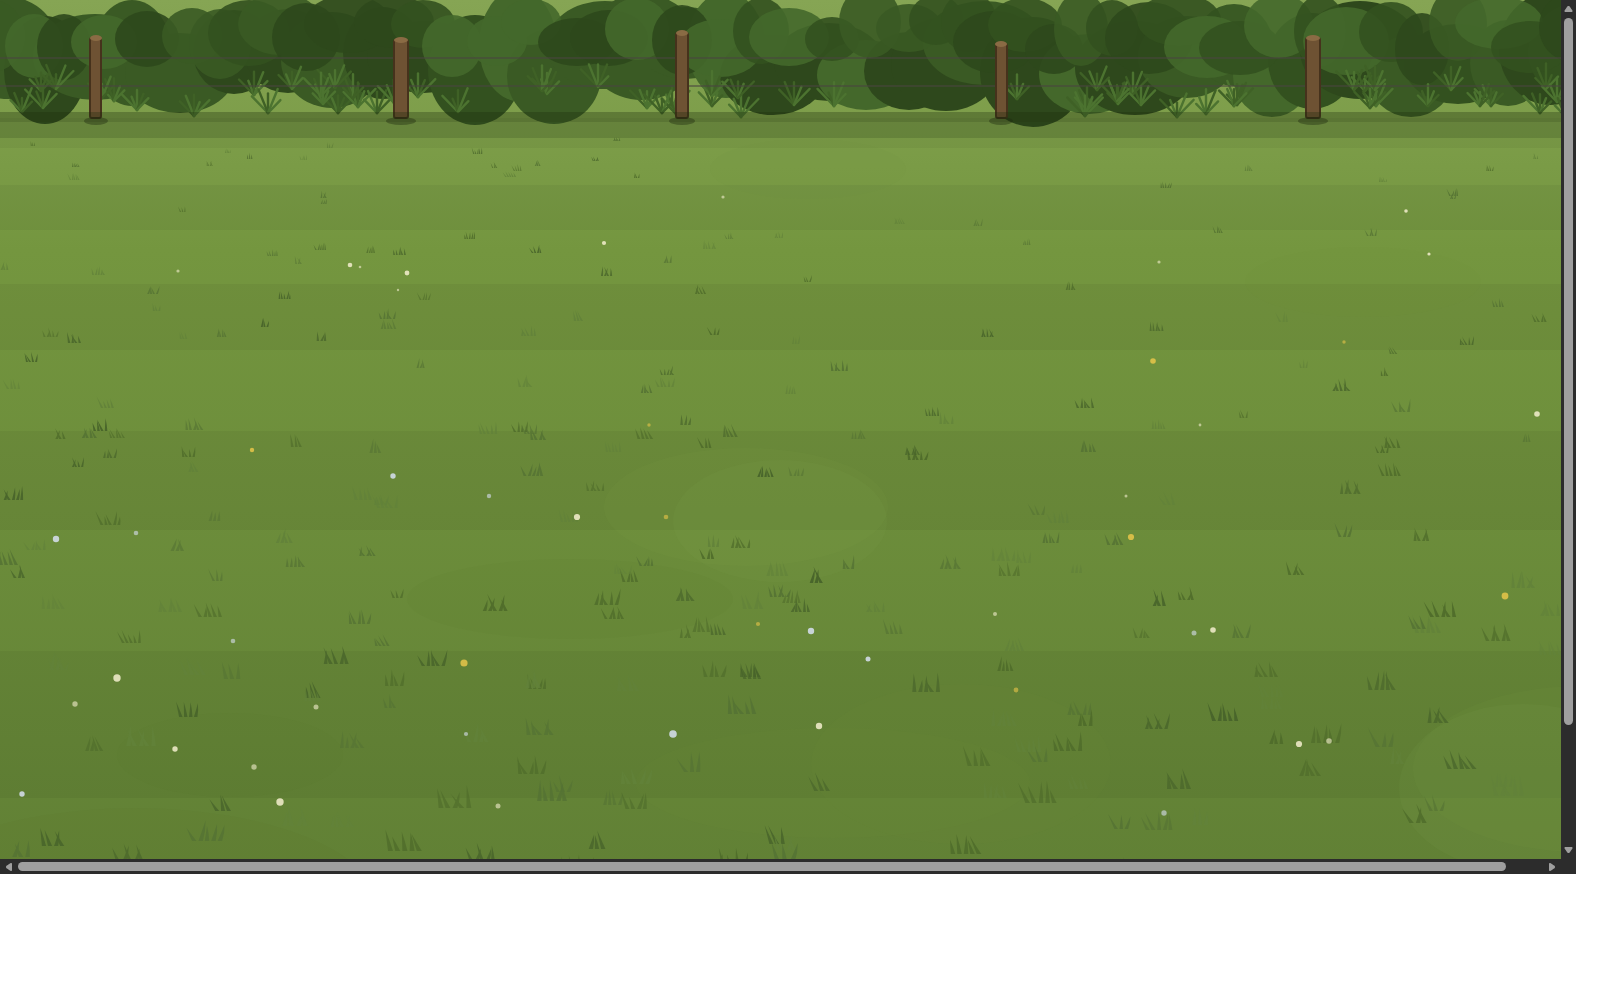
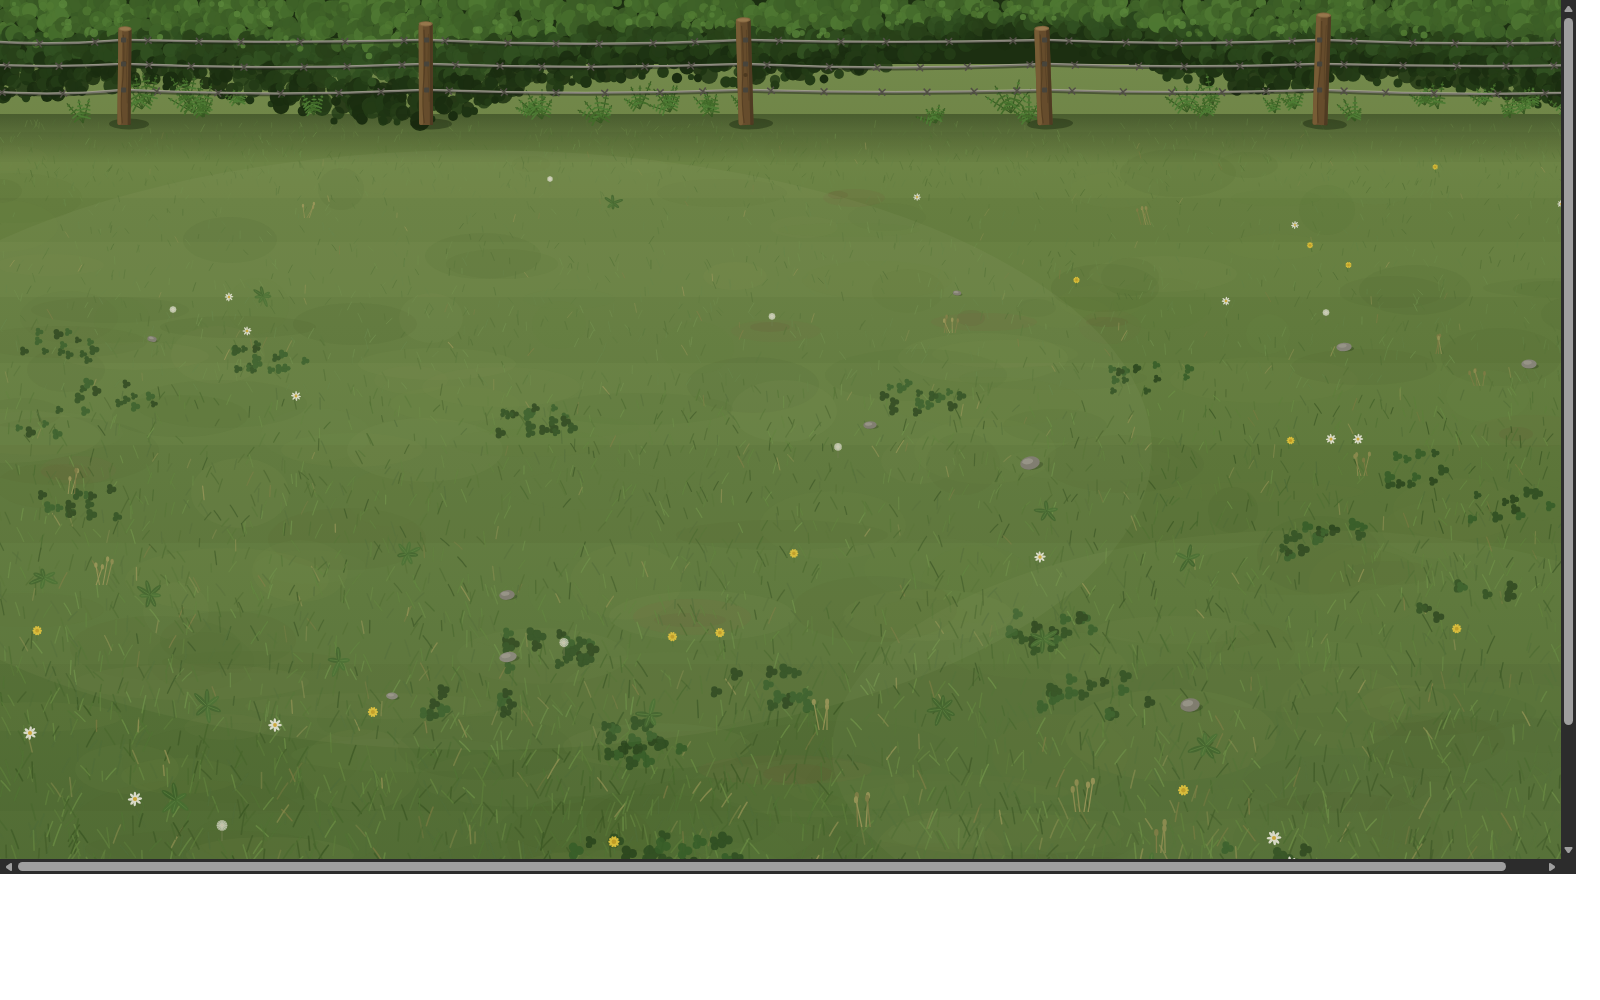
Hobekuntza estetikoak 3

diff --git a/gen-bg.js b/gen-bg.js
@@ -1,96 +1,275 @@
-// Genera un fondo de campo procedural coherente con la vista frontal de las colmenas:
-// suelo de hierba con perspectiva (franjas que crecen hacia abajo, matas más grandes cerca),
-// seto frontal y postes de valla arriba. Salida: bg.svg (se rasteriza con Edge headless).
+// Fondo de campo procedural v2 — más realista:
+// hierba con textura densa (miles de briznas), varias especies de plantas,
+// seto de follaje menudo y alambrado de espino bien visible.
+// Salida: bg.svg (rasterizar con Edge headless a 1600x1000).
 'use strict';
 const fs = require('fs');
 
 const W = 1600, H = 1000;
+const GROUND = 118; // línea donde el seto toca el suelo
 const rnd = (a, b) => a + Math.random() * (b - a);
 const pick = arr => arr[Math.floor(Math.random() * arr.length)];
+const out = [];
+const add = s => out.push(s);
 
-let s = `<svg xmlns="http://www.w3.org/2000/svg" width="${W}" height="${H}" viewBox="0 0 ${W} ${H}">`;
+add(`<svg xmlns="http://www.w3.org/2000/svg" width="${W}" height="${H}" viewBox="0 0 ${W} ${H}">`);
 
-// ── Suelo base: más claro al fondo (lejos), más saturado cerca ──
-s += `<defs><linearGradient id="g" x1="0" y1="0" x2="0" y2="1">
-<stop offset="0" stop-color="#86a554"/><stop offset="0.25" stop-color="#74963f"/>
-<stop offset="1" stop-color="#5d7c33"/></linearGradient></defs>`;
-s += `<rect width="${W}" height="${H}" fill="url(#g)"/>`;
+// ── Base: gradiente apagado, menos saturado que v1 ──
+add(`<defs>
+<linearGradient id="g" x1="0" y1="0" x2="0" y2="1">
+<stop offset="0" stop-color="#7e9352"/><stop offset="0.2" stop-color="#6f8746"/>
+<stop offset="0.6" stop-color="#5f7a3c"/><stop offset="1" stop-color="#516b34"/>
+</linearGradient>
+<linearGradient id="hs" x1="0" y1="0" x2="0" y2="1">
+<stop offset="0" stop-color="#16230c" stop-opacity=".42"/><stop offset="1" stop-color="#16230c" stop-opacity="0"/>
+</linearGradient>
+</defs>`);
+add(`<rect width="${W}" height="${H}" fill="url(#g)"/>`);
 
-// ── Franjas de siega con perspectiva: estrechas lejos, anchas cerca ──
-let y = 118, bh = 30, i = 0;
-while (y < H + 200) {
-  if (i % 2 === 0) s += `<rect x="0" y="${y.toFixed(0)}" width="${W}" height="${bh.toFixed(0)}" fill="#000" opacity="0.045"/>`;
-  y += bh; bh *= 1.22; i++;
+// ── Franjas de siega (perspectiva) muy sutiles ──
+let fy = GROUND + 14, fh = 30, fi = 0;
+while (fy < H + 220) {
+  if (fi % 2 === 0) add(`<rect x="0" y="${fy | 0}" width="${W}" height="${fh | 0}" fill="#26330f" opacity="0.05"/>`);
+  fy += fh; fh *= 1.22; fi++;
 }
 
-// ── Manchas orgánicas grandes muy sutiles ──
-for (let k = 0; k < 14; k++) {
-  const cy = rnd(160, H);
-  const sc = 0.4 + 0.8 * (cy / H);
-  s += `<ellipse cx="${rnd(0, W).toFixed(0)}" cy="${cy.toFixed(0)}" rx="${(rnd(90, 220) * sc).toFixed(0)}" ry="${(rnd(40, 90) * sc).toFixed(0)}" fill="${pick(['#4e6b2a', '#83a352', '#6d8d3d'])}" opacity="${rnd(.06, .13).toFixed(2)}"/>`;
+// ── Moteado orgánico (variación de tono) ──
+for (let k = 0; k < 220; k++) {
+  const cy = rnd(GROUND + 20, H);
+  const sc = 0.4 + 0.9 * (cy / H);
+  add(`<ellipse cx="${rnd(0, W) | 0}" cy="${cy | 0}" rx="${(rnd(30, 130) * sc) | 0}" ry="${(rnd(12, 45) * sc) | 0}" fill="${pick(['#43592a', '#7d9551', '#69833f', '#8c9c58', '#4d6630'])}" opacity="${rnd(.05, .11).toFixed(2)}"/>`);
 }
 
-// ── Matas de hierba: tamaño según cercanía (perspectiva) ──
-const greens = ['#4e6b2a', '#557334', '#46622a', '#62823a'];
-for (let k = 0; k < 320; k++) {
-  const cy = rnd(140, H - 4);
+// ── Calvas de tierra ──
+for (let k = 0; k < 9; k++) {
+  const cy = rnd(GROUND + 80, H);
+  const sc = 0.4 + 0.9 * (cy / H);
   const cx = rnd(0, W);
-  const sc = (0.35 + 1.05 * ((cy - 140) / (H - 140))) * rnd(.8, 1.2);
-  const c = pick(greens);
-  let tuft = '';
-  const blades = 3 + Math.floor(rnd(0, 3));
-  for (let b = 0; b < blades; b++) {
-    const bx = (b - blades / 2) * 5;
-    const hgt = rnd(10, 17), lean = rnd(-4, 4);
-    tuft += `<path d="M${bx} 0 Q${bx + lean} ${-hgt * .6} ${bx + lean * 1.6} ${-hgt} Q${bx + lean + 2.2} ${-hgt * .5} ${bx + 3.5} 0 Z" fill="${c}"/>`;
+  add(`<ellipse cx="${cx | 0}" cy="${cy | 0}" rx="${(rnd(40, 90) * sc) | 0}" ry="${(rnd(14, 26) * sc) | 0}" fill="#7a6a44" opacity="${rnd(.10, .18).toFixed(2)}"/>`);
+  add(`<ellipse cx="${(cx + rnd(-20, 20)) | 0}" cy="${(cy + rnd(-6, 6)) | 0}" rx="${(rnd(18, 40) * sc) | 0}" ry="${(rnd(7, 13) * sc) | 0}" fill="#6b5a38" opacity="${rnd(.12, .2).toFixed(2)}"/>`);
+}
+
+// ── Sombra del seto sobre el suelo ──
+add(`<rect x="0" y="${GROUND - 4}" width="${W}" height="46" fill="url(#hs)"/>`);
+
+// ── Briznas de hierba: textura principal (capa lejana → cercana) ──
+const farCols = ['#5d7a3c', '#688547', '#71904c', '#557236'];
+const nearCols = ['#3e5a26', '#4a692e', '#557636', '#62843d', '#6f9247', '#54703a'];
+const dryCols = ['#8d9050', '#9b9858', '#7f7f44'];
+function blade(x, y, s, c, wmin) {
+  const l = rnd(7, 15) * s;
+  const lean = rnd(-4.5, 4.5) * s;
+  return `<path d="M${x.toFixed(1)} ${y.toFixed(1)} q${lean.toFixed(1)} ${(-l * .6).toFixed(1)} ${(lean * 1.9).toFixed(1)} ${(-l).toFixed(1)}" stroke="${c}" stroke-width="${(wmin + s * .75).toFixed(2)}" fill="none" stroke-linecap="round"/>`;
+}
+for (let k = 0; k < 6800; k++) {
+  const t = Math.pow(Math.random(), 0.8);
+  const y = GROUND + 16 + (H - GROUND - 12) * t;
+  const s = 0.4 + 1.25 * t;
+  const c = Math.random() < .06 ? pick(dryCols) : (t < .3 ? pick(farCols) : pick(nearCols));
+  add(`<g opacity="${rnd(.4, .85).toFixed(2)}">${blade(rnd(0, W), y, s, c, .5)}</g>`);
+}
+// franja junto al seto: hierba fina extra para que no quede desnuda
+for (let k = 0; k < 900; k++) {
+  const y = rnd(GROUND + 6, GROUND + 70);
+  add(`<g opacity="${rnd(.35, .7).toFixed(2)}">${blade(rnd(0, W), y, rnd(.35, .55), pick(farCols), .4)}</g>`);
+}
+
+// ── Trébol: parches de hojas trifolio ──
+for (let p = 0; p < 22; p++) {
+  const cx = rnd(20, W - 20), cy = rnd(GROUND + 60, H - 10);
+  const sc = 0.5 + 1.0 * (cy / H);
+  let g = '';
+  const n = 8 + (rnd(0, 14) | 0);
+  for (let i = 0; i < n; i++) {
+    const lx = rnd(-46, 46) * sc, ly = rnd(-17, 17) * sc, r = rnd(2.2, 3.4) * sc;
+    const c = pick(['#2f4f22', '#38602a', '#2a451d']);
+    g += `<g transform="translate(${lx.toFixed(0)} ${ly.toFixed(0)})">`;
+    for (let a = 0; a < 3; a++) {
+      const rad = (a * 120 + rnd(-12, 12)) * Math.PI / 180;
+      g += `<circle cx="${(Math.cos(rad) * r * .95).toFixed(1)}" cy="${(Math.sin(rad) * r * .95).toFixed(1)}" r="${r.toFixed(1)}" fill="${c}"/>`;
+    }
+    g += '</g>';
   }
-  s += `<g transform="translate(${cx.toFixed(0)} ${cy.toFixed(0)}) scale(${sc.toFixed(2)})" opacity="${rnd(.55, .9).toFixed(2)}">${tuft}</g>`;
+  add(`<g transform="translate(${cx | 0} ${cy | 0})" opacity=".85">${g}</g>`);
 }
 
-// ── Florecillas dispersas ──
-for (let k = 0; k < 26; k++) {
-  const cy = rnd(200, H);
-  const sc = 0.5 + 0.8 * (cy / H);
-  const col = pick(['#f4eecf', '#f4eecf', '#e8c54a', '#d8e0f2']);
-  s += `<circle cx="${rnd(0, W).toFixed(0)}" cy="${cy.toFixed(0)}" r="${(rnd(2.2, 3.6) * sc).toFixed(1)}" fill="${col}" opacity=".85"/>`;
-  s += `<circle cx="${(rnd(0, W)).toFixed(0)}" cy="${(cy + rnd(-30, 30)).toFixed(0)}" r="${(rnd(1.6, 2.6) * sc).toFixed(1)}" fill="${col}" opacity=".6"/>`;
+// ── Llantén: rosetas de hojas alargadas ──
+for (let p = 0; p < 16; p++) {
+  const cx = rnd(20, W - 20), cy = rnd(GROUND + 70, H - 8);
+  const sc = 0.5 + 1.0 * (cy / H);
+  let g = '';
+  const leaves = 5 + (rnd(0, 3) | 0);
+  for (let i = 0; i < leaves; i++) {
+    const ang = (i / leaves) * 360 + rnd(-15, 15);
+    const len = rnd(9, 15) * sc;
+    g += `<g transform="rotate(${ang.toFixed(0)})"><ellipse cx="0" cy="${(-len / 2).toFixed(1)}" rx="${(2.1 * sc).toFixed(1)}" ry="${(len / 2).toFixed(1)}" fill="${pick(['#41652c', '#4b7233'])}"/><line x1="0" y1="-1" x2="0" y2="${(-len + 2).toFixed(1)}" stroke="#5d8540" stroke-width="${(.6 * sc).toFixed(2)}"/></g>`;
+  }
+  add(`<g transform="translate(${cx | 0} ${cy | 0})" opacity=".9">${g}</g>`);
 }
 
-// ── Seto al fondo (vista frontal, como las colmenas) ──
-const hedge = ['#2e481c', '#3a5a24', '#44682b', '#33511f'];
-for (let x = -40; x < W + 40; x += rnd(34, 56)) {
-  const ry = rnd(34, 58), cy = rnd(42, 78);
-  s += `<ellipse cx="${x.toFixed(0)}" cy="${cy.toFixed(0)}" rx="${rnd(38, 62).toFixed(0)}" ry="${ry.toFixed(0)}" fill="${pick(hedge)}"/>`;
+// ── Dientes de león: flores amarillas y vilanos ──
+for (let p = 0; p < 16; p++) {
+  const cx = rnd(15, W - 15), cy = rnd(GROUND + 50, H - 10);
+  const sc = 0.5 + 1.0 * (cy / H);
+  const r = 3.4 * sc;
+  let g = `<line x1="0" y1="0" x2="${rnd(-2, 2).toFixed(1)}" y2="${(-9 * sc).toFixed(1)}" stroke="#557637" stroke-width="${(1 * sc).toFixed(2)}"/>`;
+  g += `<g transform="translate(${rnd(-2, 2).toFixed(1)} ${(-9 * sc).toFixed(1)})">`;
+  for (let i = 0; i < 10; i++) {
+    const rad = i / 10 * Math.PI * 2;
+    g += `<ellipse cx="${(Math.cos(rad) * r * .7).toFixed(1)}" cy="${(Math.sin(rad) * r * .7).toFixed(1)}" rx="${(r * .55).toFixed(1)}" ry="${(r * .3).toFixed(1)}" transform="rotate(${(rad * 57.3).toFixed(0)} ${(Math.cos(rad) * r * .7).toFixed(1)} ${(Math.sin(rad) * r * .7).toFixed(1)})" fill="#e3c43c"/>`;
+  }
+  g += `<circle r="${(r * .5).toFixed(1)}" fill="#c9a428"/></g>`;
+  add(`<g transform="translate(${cx | 0} ${cy | 0})">${g}</g>`);
 }
-for (let x = -40; x < W + 40; x += rnd(26, 46)) {
-  s += `<ellipse cx="${x.toFixed(0)}" cy="${rnd(20, 50).toFixed(0)}" rx="${rnd(26, 44).toFixed(0)}" ry="${rnd(22, 38).toFixed(0)}" fill="${pick(hedge)}" opacity=".9"/>`;
+for (let p = 0; p < 8; p++) {
+  const cx = rnd(15, W - 15), cy = rnd(GROUND + 60, H - 10);
+  const sc = 0.5 + 1.0 * (cy / H);
+  const r = 4 * sc;
+  let g = `<line x1="0" y1="0" x2="0" y2="${(-10 * sc).toFixed(1)}" stroke="#6d7d4a" stroke-width="${(.9 * sc).toFixed(2)}"/><g transform="translate(0 ${(-10 * sc - r * .4).toFixed(1)})"><circle r="${r.toFixed(1)}" fill="#eceadc" opacity=".55"/>`;
+  for (let i = 0; i < 14; i++) {
+    const rad = i / 14 * Math.PI * 2;
+    g += `<line x1="0" y1="0" x2="${(Math.cos(rad) * r).toFixed(1)}" y2="${(Math.sin(rad) * r).toFixed(1)}" stroke="#f0eee2" stroke-width=".5" opacity=".8"/>`;
+  }
+  g += `<circle r="${(r * .25).toFixed(1)}" fill="#cfcaaf"/></g>`;
+  add(`<g transform="translate(${cx | 0} ${cy | 0})">${g}</g>`);
 }
-// helechos sueltos delante del seto
-for (let k = 0; k < 60; k++) {
-  const cx = rnd(0, W), cy = rnd(86, 118);
-  let fr = '';
-  for (let b = 0; b < 5; b++) {
-    const ang = -90 + (b - 2) * 22, len = rnd(14, 26);
+
+// ── Margaritas ──
+for (let p = 0; p < 18; p++) {
+  const cx = rnd(15, W - 15), cy = rnd(GROUND + 50, H - 10);
+  const sc = 0.45 + 0.95 * (cy / H);
+  let g = '';
+  for (let i = 0; i < 8; i++) {
+    const ang = i * 45 + rnd(-8, 8);
+    g += `<ellipse cx="0" cy="${(-3 * sc).toFixed(1)}" rx="${(1.1 * sc).toFixed(1)}" ry="${(3 * sc).toFixed(1)}" transform="rotate(${ang})" fill="#f0eee0"/>`;
+  }
+  g += `<circle r="${(1.7 * sc).toFixed(1)}" fill="#dfb23a"/>`;
+  add(`<g transform="translate(${cx | 0} ${cy | 0})" opacity=".92">${g}</g>`);
+}
+
+// ── Cardos secos y matas altas ──
+for (let p = 0; p < 12; p++) {
+  const cx = rnd(15, W - 15), cy = rnd(GROUND + 90, H - 6);
+  const sc = 0.5 + 1.0 * (cy / H);
+  let g = '';
+  const stems = 3 + (rnd(0, 3) | 0);
+  for (let i = 0; i < stems; i++) {
+    const lx = (i - stems / 2) * 3.2 * sc, hgt = rnd(14, 24) * sc, lean = rnd(-4, 4);
+    const c = pick(['#9c9456', '#a89e5e', '#8a8148']);
+    g += `<path d="M${lx.toFixed(1)} 0 q${lean} ${-hgt * .6} ${lean * 1.6} ${-hgt}" stroke="${c}" stroke-width="${(1 * sc).toFixed(2)}" fill="none"/>`;
+    g += `<ellipse cx="${(lx + lean * 1.6).toFixed(1)}" cy="${-hgt.toFixed(1)}" rx="${(1.6 * sc).toFixed(1)}" ry="${(2.6 * sc).toFixed(1)}" fill="${c}"/>`;
+  }
+  add(`<g transform="translate(${cx | 0} ${cy | 0})" opacity=".8">${g}</g>`);
+}
+
+// ── Piedras ──
+for (let p = 0; p < 11; p++) {
+  const cx = rnd(20, W - 20), cy = rnd(GROUND + 100, H - 10);
+  const sc = 0.45 + 1.0 * (cy / H);
+  const rx = rnd(5, 11) * sc, ry = rx * rnd(.55, .7);
+  add(`<g transform="translate(${cx | 0} ${cy | 0}) rotate(${rnd(-10, 10).toFixed(0)})">
+<ellipse cx="${(rx * .25).toFixed(1)}" cy="${(ry * .5).toFixed(1)}" rx="${(rx * 1.05).toFixed(1)}" ry="${(ry * .6).toFixed(1)}" fill="#1c2a10" opacity=".3"/>
+<ellipse rx="${rx.toFixed(1)}" ry="${ry.toFixed(1)}" fill="${pick(['#8d8a7e', '#94908a', '#827e72'])}"/>
+<ellipse cx="${(-rx * .2).toFixed(1)}" cy="${(-ry * .3).toFixed(1)}" rx="${(rx * .55).toFixed(1)}" ry="${(ry * .45).toFixed(1)}" fill="#a5a196" opacity=".7"/>
+</g>`);
+}
+
+// ── Seto: follaje menudo en bandas de luz ──
+function hedgeHeight(x) { return 78 + 26 * Math.sin(x / 210) + 14 * Math.sin(x / 67 + 2); }
+const hedgeDark = ['#1f3413', '#243d17', '#1b2e10'];
+const hedgeMid = ['#2c481d', '#335322', '#2a431a'];
+const hedgeLit = ['#3f6128', '#48702e', '#527c34', '#42662a'];
+add(`<rect x="0" y="0" width="${W}" height="64" fill="#1d3011"/>`);
+for (let x = -16; x < W + 16; x += 7) {
+  const hh = hedgeHeight(x) + rnd(-6, 6);
+  for (let yy = 4; yy < hh; yy += rnd(7, 12)) {
+    const f = yy / hh;
+    const c = f > .72 ? pick(hedgeDark) : f > .4 ? pick(hedgeMid) : pick(hedgeLit);
+    add(`<circle cx="${(x + rnd(-5, 5)).toFixed(0)}" cy="${(yy + rnd(-3, 3)).toFixed(0)}" r="${rnd(4.5, 10).toFixed(1)}" fill="${c}" opacity="${rnd(.8, 1).toFixed(2)}"/>`);
+  }
+  if (Math.random() < .3) add(`<circle cx="${x}" cy="${(hedgeHeight(x) + rnd(2, 9)).toFixed(0)}" r="${rnd(3, 6).toFixed(1)}" fill="${pick(hedgeDark)}"/>`);
+}
+for (let k = 0; k < 130; k++) {
+  const x = rnd(0, W), hh = hedgeHeight(x);
+  add(`<circle cx="${x | 0}" cy="${rnd(2, hh * .5) | 0}" r="${rnd(2, 4.5).toFixed(1)}" fill="${pick(['#5d8a3c', '#558034'])}" opacity="${rnd(.5, .9).toFixed(2)}"/>`);
+}
+
+// ── Helechos delante del seto ──
+for (let k = 0; k < 34; k++) {
+  const cx = rnd(0, W), cy = rnd(GROUND - 14, GROUND + 8);
+  const sc = rnd(.7, 1.25);
+  let g = '';
+  const fronds = 3 + (rnd(0, 3) | 0);
+  for (let f = 0; f < fronds; f++) {
+    const ang = -90 + (f - fronds / 2) * rnd(20, 30);
+    const len = rnd(16, 30) * sc;
     const rad = ang * Math.PI / 180;
-    fr += `<line x1="0" y1="0" x2="${(Math.cos(rad) * len).toFixed(1)}" y2="${(Math.sin(rad) * len).toFixed(1)}" stroke="${pick(['#3f6126', '#4c7330'])}" stroke-width="2.4" stroke-linecap="round"/>`;
+    const tx = Math.cos(rad) * len, ty = Math.sin(rad) * len;
+    let fr = `<line x1="0" y1="0" x2="${tx.toFixed(1)}" y2="${ty.toFixed(1)}" stroke="#3a5c24" stroke-width="1.1"/>`;
+    for (let l = .25; l < 1; l += .16) {
+      const px = tx * l, py = ty * l, ll = (1 - l) * 7 * sc;
+      const pa = rad + Math.PI / 2;
+      fr += `<line x1="${(px - Math.cos(pa) * ll).toFixed(1)}" y1="${(py - Math.sin(pa) * ll).toFixed(1)}" x2="${(px + Math.cos(pa) * ll).toFixed(1)}" y2="${(py + Math.sin(pa) * ll).toFixed(1)}" stroke="${pick(['#46702c', '#518036'])}" stroke-width="1.6" stroke-linecap="round"/>`;
+    }
+    g += fr;
   }
-  s += `<g transform="translate(${cx.toFixed(0)} ${cy.toFixed(0)})">${fr}</g>`;
+  add(`<g transform="translate(${cx | 0} ${cy | 0})">${g}</g>`);
 }
 
-// ── Valla: alambres y postes frontales ──
-s += `<line x1="0" y1="58" x2="${W}" y2="58" stroke="#4a4540" stroke-width="2" opacity=".55"/>`;
-s += `<line x1="0" y1="86" x2="${W}" y2="86" stroke="#4a4540" stroke-width="2" opacity=".55"/>`;
-for (let x = 90; x < W; x += rnd(240, 330)) {
-  const ph = rnd(72, 86), pw = rnd(11, 14), py = 118 - ph;
-  s += `<rect x="${x.toFixed(0)}" y="${py.toFixed(0)}" width="${pw.toFixed(0)}" height="${ph.toFixed(0)}" rx="2" fill="#6e5233" stroke="#46321c" stroke-width="2"/>`;
-  s += `<ellipse cx="${(x + pw / 2).toFixed(0)}" cy="${py.toFixed(0)}" rx="${(pw / 2).toFixed(0)}" ry="3" fill="#8a6b44"/>`;
-  s += `<ellipse cx="${(x + pw / 2).toFixed(0)}" cy="121" rx="${(pw * 1.1).toFixed(0)}" ry="4" fill="#1e2a0e" opacity=".4"/>`;
+// ── Alambrado de espino: postes + 3 alambres combados con púas ──
+const posts = [];
+let px0 = rnd(70, 150);
+while (px0 < W + 160) { posts.push(px0); px0 += rnd(260, 330); }
+const wireHeights = [-78, -54, -28];
+
+function wirePath(x1, x2, yAbs, sag) {
+  const mx = (x1 + x2) / 2;
+  return `M${x1.toFixed(0)} ${yAbs.toFixed(1)} Q${mx.toFixed(0)} ${(yAbs + sag).toFixed(1)} ${x2.toFixed(0)} ${yAbs.toFixed(1)}`;
+}
+const spans = [];
+for (let i = -1; i < posts.length; i++) {
+  const a = i < 0 ? -30 : posts[i];
+  const b = i + 1 < posts.length ? posts[i + 1] : W + 30;
+  if (b > a) spans.push([a, b]);
+}
+for (const wy of wireHeights) {
+  const yAbs = GROUND + wy;
+  for (const [a, b] of spans) {
+    const sag = rnd(4, 8);
+    add(`<path d="${wirePath(a, b, yAbs + 1.4, sag)}" stroke="#21251c" stroke-width="2.6" fill="none" opacity=".5"/>`);
+    add(`<path d="${wirePath(a, b, yAbs, sag)}" stroke="#7d7a70" stroke-width="2" fill="none"/>`);
+    add(`<path d="${wirePath(a, b, yAbs - .8, sag)}" stroke="#c4c0b2" stroke-width=".8" fill="none" opacity=".75"/>`);
+    for (let bx = a + rnd(18, 40); bx < b - 12; bx += rnd(42, 64)) {
+      const t = (bx - a) / (b - a);
+      const by = yAbs + sag * 2 * t * (1 - t);
+      add(`<g transform="translate(${bx.toFixed(0)} ${by.toFixed(1)}) rotate(${rnd(-12, 12).toFixed(0)})"><line x1="-3.4" y1="-3.4" x2="3.4" y2="3.4" stroke="#56524a" stroke-width="1.5"/><line x1="-3.4" y1="3.4" x2="3.4" y2="-3.4" stroke="#56524a" stroke-width="1.5"/></g>`);
+    }
+  }
 }
 
-// ── Sombra del seto sobre la hierba (ancla el fondo al suelo) ──
-s += `<rect x="0" y="112" width="${W}" height="26" fill="#1e2a0e" opacity=".18"/>`;
-s += `<rect x="0" y="112" width="${W}" height="10" fill="#1e2a0e" opacity=".16"/>`;
+for (const x of posts) {
+  const ph = rnd(92, 110), pw = rnd(13, 16), tilt = rnd(-2.2, 2.2);
+  add(`<g transform="translate(${x.toFixed(0)} ${GROUND + 3}) rotate(${tilt.toFixed(1)})">
+<ellipse cx="5" cy="3" rx="${(pw * 1.5).toFixed(0)}" ry="5.5" fill="#16230c" opacity=".4"/>
+<rect x="${(-pw / 2).toFixed(1)}" y="${-ph}" width="${pw}" height="${ph + 4}" rx="2" fill="#6b4f2e"/>
+<rect x="${(-pw / 2).toFixed(1)}" y="${-ph}" width="${(pw * .3).toFixed(1)}" height="${ph + 4}" rx="2" fill="#7f6038" opacity=".9"/>
+<rect x="${(pw / 2 - pw * .22).toFixed(1)}" y="${-ph}" width="${(pw * .22).toFixed(1)}" height="${ph + 4}" fill="#4d3820" opacity=".8"/>
+<path d="M${(-pw * .12).toFixed(1)} ${-ph + 6} q2 ${ph * .3} -1 ${ph * .6} q-1 ${ph * .2} 1 ${ph * .36}" stroke="#553d22" stroke-width="1.1" fill="none" opacity=".8"/>
+<path d="M${(pw * .2).toFixed(1)} ${-ph + 10} q-1.5 ${ph * .35} .5 ${ph * .7}" stroke="#553d22" stroke-width=".9" fill="none" opacity=".6"/>
+${Math.random() < .5 ? `<circle cx="${rnd(-2, 2).toFixed(1)}" cy="${(-ph * rnd(.3, .7)).toFixed(0)}" r="2.1" fill="#503a20"/>` : ''}
+<ellipse cx="0" cy="${-ph}" rx="${(pw / 2).toFixed(1)}" ry="2.6" fill="#8a6a42"/>
+<ellipse cx="0" cy="${-ph}" rx="${(pw / 2 - 1.6).toFixed(1)}" ry="1.7" fill="#9d7c50"/>
+</g>`);
+  for (const wy of wireHeights)
+    add(`<rect x="${(x - 2.6).toFixed(0)}" y="${(GROUND + wy - 2.6).toFixed(1)}" width="5.2" height="5.2" rx="1" fill="#4a463e"/>`);
+}
 
-s += '</svg>';
-fs.writeFileSync('bg.svg', s);
-console.log('bg.svg generado:', (s.length / 1024).toFixed(0) + ' KB');
+// ── Luz ambiental: bandas diagonales suaves + viñeta ──
+add(`<ellipse cx="${W * .3}" cy="${H * .45}" rx="${W * .42}" ry="${H * .3}" fill="#fff6c8" opacity=".045"/>`);
+add(`<ellipse cx="${W * .82}" cy="${H * .75}" rx="${W * .3}" ry="${H * .22}" fill="#fff6c8" opacity=".035"/>`);
+add(`<rect width="${W}" height="${H}" fill="#1a2a0e" opacity=".05"/>`);
+
+add('</svg>');
+const svg = out.join('\n');
+fs.writeFileSync('bg.svg', svg);
+console.log('bg.svg generado:', (svg.length / 1024).toFixed(0) + ' KB,', out.length, 'elementos');
